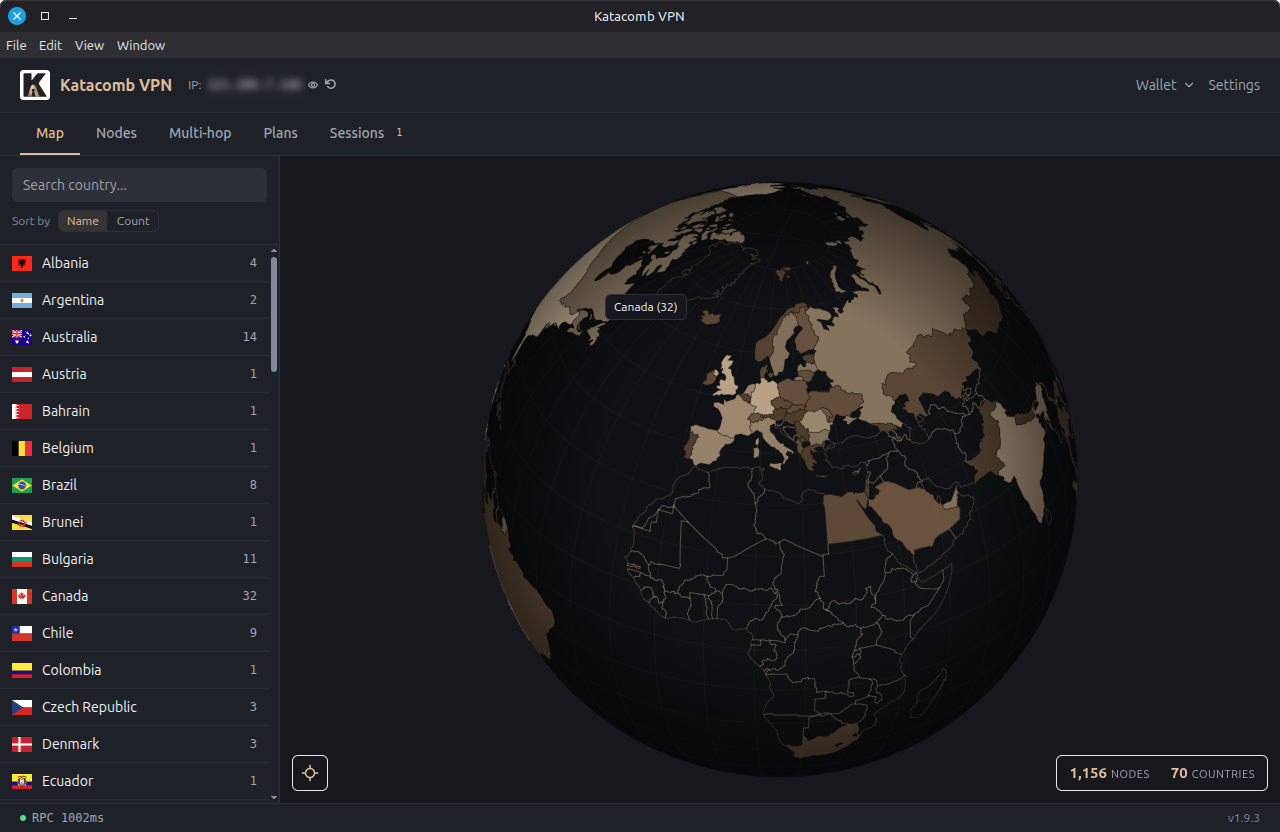
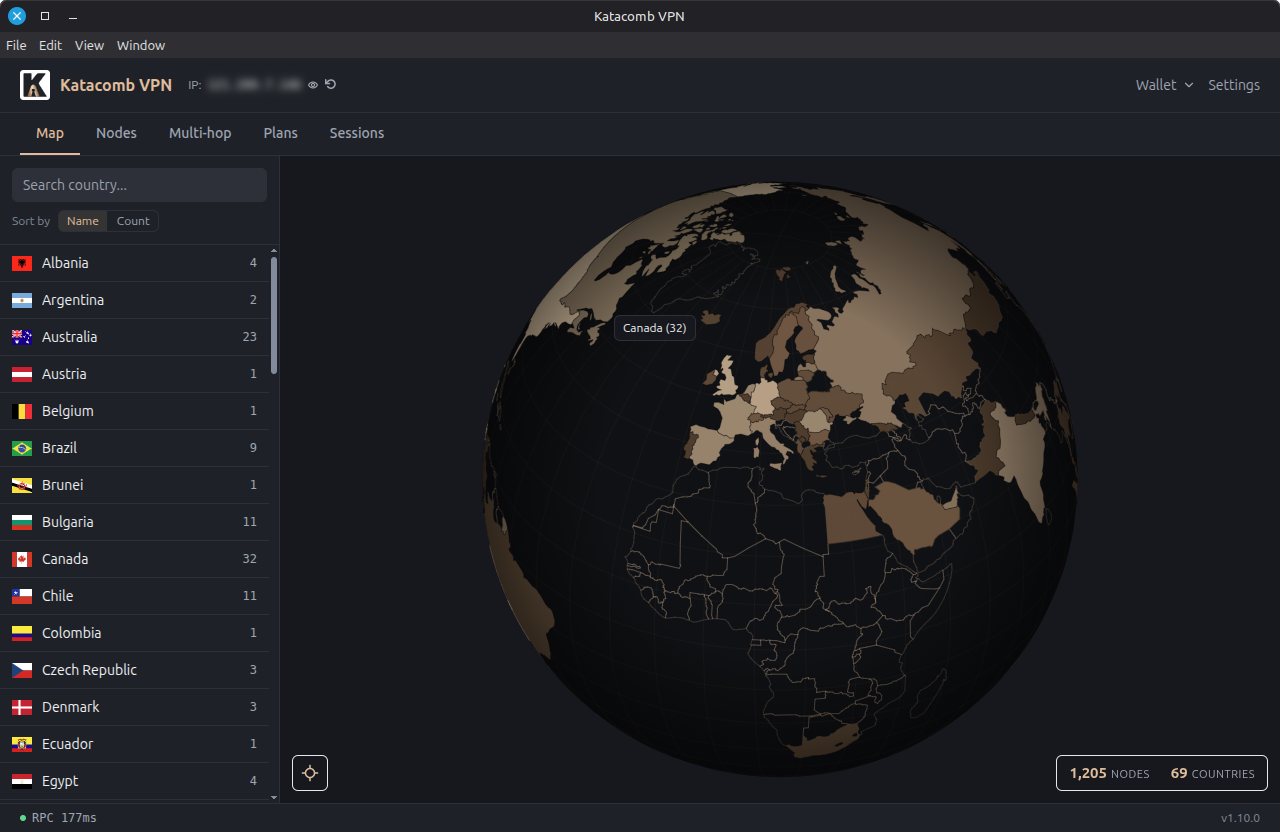
Bump Katacomb VPN fallback to v1.10.0 and update screenshots

diff --git a/plugins/katacomb-release/index.js b/plugins/katacomb-release/index.js
@@ -4,21 +4,21 @@ const RELEASES = `https://github.com/${REPO}/releases`;
 // Used when the GitHub API can't be reached, so an offline or rate-limited
 // build still produces a working page instead of failing.
 const FALLBACK = {
-  version: '1.9.3',
+  version: '1.10.0',
   stale: true,
-  releaseUrl: `${RELEASES}/tag/v1.9.3`,
+  releaseUrl: `${RELEASES}/tag/v1.10.0`,
   deb: {
-    name: 'katacomb-vpn_1.9.3_amd64.deb',
-    url: `${RELEASES}/download/v1.9.3/katacomb-vpn_1.9.3_amd64.deb`,
+    name: 'katacomb-vpn_1.10.0_amd64.deb',
+    url: `${RELEASES}/download/v1.10.0/katacomb-vpn_1.10.0_amd64.deb`,
     size: '113 MB',
   },
   appimage: {
-    name: 'katacomb-vpn-1.9.3.AppImage',
-    url: `${RELEASES}/download/v1.9.3/katacomb-vpn-1.9.3.AppImage`,
+    name: 'katacomb-vpn-1.10.0.AppImage',
+    url: `${RELEASES}/download/v1.10.0/katacomb-vpn-1.10.0.AppImage`,
     size: '143 MB',
   },
-  checksums: `${RELEASES}/download/v1.9.3/SHA256SUMS`,
-  signature: `${RELEASES}/download/v1.9.3/SHA256SUMS.asc`,
+  checksums: `${RELEASES}/download/v1.10.0/SHA256SUMS`,
+  signature: `${RELEASES}/download/v1.10.0/SHA256SUMS.asc`,
 };
 
 const megabytes = (bytes) =>
